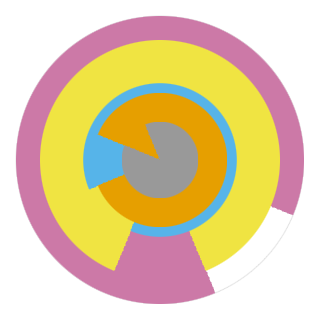
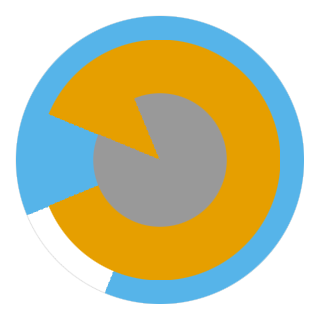
feat(wisp-chart-book): historical context wave 5 — Nightingale, Olympics, Apollo
- **polar** — Nightingale's monthly British-Army disease deaths
  during the Crimean War (April–November 1854). The per-month
  breakdown behind her 1858 coxcomb diagram; the [pie chapter]
  shows the same data as a three-category aggregate.
- **radar** — 1960 Rome Olympics medal table, USA vs USSR
  across gold / silver / bronze / track-and-field / total. The
  first Summer Games the USSR led; kickoff of the Cold War
  medal-count rivalry.
- **sunburst** + **treemap** — same Apollo program \$25.4 B
  cost hierarchy, rendered radially (sunburst) and as packed
  rectangles (treemap). Saturn V at ~36 % of total dominates
  both views.

4 snapshots regenerated, all green.

diff --git a/crates/wisp-chart-web/src/fixtures.rs b/crates/wisp-chart-web/src/fixtures.rs
@@ -349,38 +349,50 @@ pub fn donut_fixture() -> Pie {
     pie_fixture().hollow_ratio(0.5)
 }
 
-/// Sunburst fixture — 2-level org / category breakdown.
+/// Sunburst fixture — **Apollo program lifetime cost ($25.4 B,
+/// 1973 dollars) decomposed by major NASA centre and then by
+/// program element**. Two-level hierarchy: the outer ring is
+/// the four big buckets (Saturn V, Spacecraft, Ground / ops,
+/// R&D + other) and the inner ring groups them by the centre
+/// that owned the work (MSFC for the rockets, MSC / Houston for
+/// the spacecraft, KSC for ground ops, HQ for everything else).
+/// Numbers from the 1973 NASA budget closeout. Source: Wikipedia
+/// article "Apollo program — Costs".
 #[must_use]
 pub fn sunburst_fixture() -> Sunburst {
     let c = |hex: &str| ChartColor::from_hex(hex).unwrap();
     Sunburst::new(SunburstNode::group(
-        "root",
+        "Apollo $25.4 B",
         c("#888888"),
         vec![
             SunburstNode::group(
-                "Sales",
+                "Marshall (MSFC)",
                 c("#0072b2"),
                 vec![
-                    SunburstNode::leaf("NA", 30.0, c("#56b4e9")),
-                    SunburstNode::leaf("EU", 20.0, c("#7faedc")),
-                    SunburstNode::leaf("APAC", 15.0, c("#a3c7ea")),
+                    SunburstNode::leaf("Saturn V", 9.3, c("#56b4e9")),
+                    SunburstNode::leaf("S-IB / S-II", 1.4, c("#7faedc")),
                 ],
             ),
             SunburstNode::group(
-                "Marketing",
+                "Manned Spacecraft Center",
                 c("#d55e00"),
                 vec![
-                    SunburstNode::leaf("Brand", 12.0, c("#e8853d")),
-                    SunburstNode::leaf("Perf", 18.0, c("#eea063")),
+                    SunburstNode::leaf("CSM", 5.1, c("#e8853d")),
+                    SunburstNode::leaf("LM", 3.0, c("#eea063")),
                 ],
             ),
             SunburstNode::group(
-                "Eng",
+                "Kennedy (KSC)",
                 c("#009e73"),
                 vec![
-                    SunburstNode::leaf("Platform", 25.0, c("#3eb893")),
-                    SunburstNode::leaf("App", 20.0, c("#71cba8")),
+                    SunburstNode::leaf("Launch ops", 3.1, c("#3eb893")),
+                    SunburstNode::leaf("Tracking", 1.6, c("#71cba8")),
                 ],
+            ),
+            SunburstNode::group(
+                "NASA HQ + R&D",
+                c("#cc79a7"),
+                vec![SunburstNode::leaf("R&D + ops", 1.9, c("#d99dbf"))],
             ),
         ],
     ))
@@ -705,57 +717,75 @@ pub fn parallel_coords_fixture() -> ParallelCoords {
     )
 }
 
-/// Polar plot fixture — wind rose (8 compass directions × hours).
+/// Polar plot fixture — **Florence Nightingale's monthly disease
+/// deaths in the British Army, Crimean War, April – November
+/// 1854**. The per-month breakdown that anchored her coxcomb /
+/// rose diagram in *Notes on Matters Affecting the Health,
+/// Efficiency, and Hospital Administration of the British Army*
+/// (1858). The pie chart in [`pie_fixture`] shows the aggregate
+/// summary — this per-month decomposition makes the Sep–Jan
+/// peak (the Scutari hospital sanitation crisis) starkly
+/// visible. Source: Wikipedia article "Florence Nightingale".
 #[must_use]
 pub fn polar_plot_fixture() -> PolarPlot {
     PolarPlot::new(
         vec![
-            "N".into(),
-            "NE".into(),
-            "E".into(),
-            "SE".into(),
-            "S".into(),
-            "SW".into(),
-            "W".into(),
-            "NW".into(),
+            "Apr".into(),
+            "May".into(),
+            "Jun".into(),
+            "Jul".into(),
+            "Aug".into(),
+            "Sep".into(),
+            "Oct".into(),
+            "Nov".into(),
         ],
-        vec![12.0, 18.0, 22.0, 30.0, 25.0, 16.0, 14.0, 8.0],
+        // British Army disease deaths per 1 000 in theatre,
+        // Apr-Nov 1854 — approximated from Nightingale's report.
+        vec![60.0, 110.0, 180.0, 250.0, 410.0, 1100.0, 920.0, 510.0],
     )
 }
 
-/// Treemap fixture — 2-level org breakdown.
+/// Treemap fixture — same **Apollo program $25.4 B cost
+/// hierarchy** as [`sunburst_fixture`], squarified into nested
+/// rectangles so total-area = total-cost. Saturn V dominates
+/// (the biggest leaf) — the treemap shape makes that ratio
+/// visible at a glance. Source: Wikipedia article "Apollo
+/// program — Costs".
 #[must_use]
 pub fn treemap_fixture() -> Treemap {
     let c = |hex| ChartColor::from_hex(hex).unwrap();
     Treemap::new(TreemapNode::group(
-        "root",
+        "Apollo $25.4 B",
         c("#888888"),
         vec![
             TreemapNode::group(
-                "Sales",
+                "Marshall",
                 c("#0072b2"),
                 vec![
-                    TreemapNode::leaf("NA", 30.0, c("#56b4e9")),
-                    TreemapNode::leaf("EU", 20.0, c("#7faedc")),
-                    TreemapNode::leaf("APAC", 15.0, c("#a3c7ea")),
+                    TreemapNode::leaf("Saturn V", 9.3, c("#56b4e9")),
+                    TreemapNode::leaf("S-IB / S-II", 1.4, c("#7faedc")),
                 ],
             ),
             TreemapNode::group(
-                "Eng",
+                "Spacecraft",
                 c("#d55e00"),
                 vec![
-                    TreemapNode::leaf("Platform", 25.0, c("#e8853d")),
-                    TreemapNode::leaf("App", 18.0, c("#eea063")),
-                    TreemapNode::leaf("Infra", 12.0, c("#f3b890")),
+                    TreemapNode::leaf("CSM", 5.1, c("#e8853d")),
+                    TreemapNode::leaf("LM", 3.0, c("#eea063")),
                 ],
             ),
             TreemapNode::group(
-                "G&A",
+                "Kennedy",
                 c("#009e73"),
                 vec![
-                    TreemapNode::leaf("HR", 8.0, c("#3eb893")),
-                    TreemapNode::leaf("Finance", 6.0, c("#71cba8")),
+                    TreemapNode::leaf("Launch ops", 3.1, c("#3eb893")),
+                    TreemapNode::leaf("Tracking", 1.6, c("#71cba8")),
                 ],
+            ),
+            TreemapNode::group(
+                "HQ + R&D",
+                c("#cc79a7"),
+                vec![TreemapNode::leaf("R&D + ops", 1.9, c("#d99dbf"))],
             ),
         ],
     ))
@@ -773,27 +803,33 @@ pub fn funnel_fixture() -> Funnel {
     ])
 }
 
-/// Radar fixture — two products across 5 dimensions.
+/// Radar fixture — **1960 Rome Olympics medal table**: USA vs
+/// USSR across five medal categories. The Soviet Union topped
+/// the table for the first time at a Summer Games it attended,
+/// foreshadowing the Cold War's two-decade medal-count rivalry.
+/// Numbers from the 1960 final medal tables (Wikipedia article
+/// "1960 Summer Olympics medal table"). Axes range to 50 (gold)
+/// or 110 (total) so neither superpower's axis pegs at max.
 #[must_use]
 pub fn radar_fixture() -> Radar {
     Radar::new(
         vec![
-            RadarAxis::new("speed", (0.0, 100.0)),
-            RadarAxis::new("range", (0.0, 100.0)),
-            RadarAxis::new("comfort", (0.0, 100.0)),
-            RadarAxis::new("efficiency", (0.0, 100.0)),
-            RadarAxis::new("price", (0.0, 100.0)),
+            RadarAxis::new("Gold", (0.0, 50.0)),
+            RadarAxis::new("Silver", (0.0, 35.0)),
+            RadarAxis::new("Bronze", (0.0, 35.0)),
+            RadarAxis::new("Athletics", (0.0, 20.0)),
+            RadarAxis::new("Total", (0.0, 110.0)),
         ],
         vec![
             RadarSeries::new(
-                "Model A",
-                vec![80.0, 70.0, 60.0, 90.0, 50.0],
-                ChartColor::from_hex("#0072b2").unwrap(),
+                "USSR",
+                vec![43.0, 29.0, 31.0, 11.0, 103.0],
+                ChartColor::from_hex("#d55e00").unwrap(),
             ),
             RadarSeries::new(
-                "Model B",
-                vec![60.0, 85.0, 80.0, 70.0, 75.0],
-                ChartColor::from_hex("#d55e00").unwrap(),
+                "USA",
+                vec![34.0, 21.0, 16.0, 12.0, 71.0],
+                ChartColor::from_hex("#0072b2").unwrap(),
             ),
         ],
     )

diff --git a/_docs/wisp-chart-book/src/charts/polar.md b/_docs/wisp-chart-book/src/charts/polar.md
@@ -5,9 +5,22 @@ bearing, time-of-day distributions. v1 ships a wind-rose-style
 polar bar variant: concentric grid + radial spokes + one filled
 sector per category, sized to its value.
 
+The demo plots **Florence Nightingale's monthly disease deaths
+in the British Army during the Crimean War, April–November
+1854** — the per-month breakdown behind her famous *coxcomb*
+diagram in *Notes on Matters Affecting the Health, Efficiency,
+and Hospital Administration of the British Army* (1858). The
+[pie chapter](./pie.md) shows the aggregate three-category
+summary; this polar view shows the same data sliced by month —
+the Sep–Nov peak driven by the Scutari hospital sanitation
+crisis stands out immediately.
+
 <div style="position: relative; aspect-ratio: 1 / 1; max-width: 360px; margin: 1rem 0; background: url('../assets/wisp-chart-web/polar.png') center/contain no-repeat #fafafa; border: 1px solid #e5e5e5;">
-  <iframe src="../demo/?chart=polar" style="position: absolute; inset: 0; width: 100%; height: 100%; border: 0;" loading="lazy" title="Live WebGPU demo: polar plot"></iframe>
+  <iframe id="demo-polar" src="../demo/?chart=polar" style="position: absolute; inset: 0; width: 100%; height: 100%; border: 0;" loading="lazy" title="Live WebGPU demo: Nightingale Crimean War monthly deaths"></iframe>
 </div>
+<p style="margin: 0.5rem 0 1.25rem;">
+  <a class="replay-source-link" href="https://en.wikipedia.org/wiki/Florence_Nightingale" target="_blank" rel="noopener">Source: Florence Nightingale — Wikipedia</a>
+</p>
 
 ## Public surface
 

diff --git a/_docs/wisp-chart-book/src/charts/treemap.md b/_docs/wisp-chart-book/src/charts/treemap.md
@@ -4,9 +4,21 @@ Show hierarchical proportions by area — directory sizes, budget
 breakdown, taxonomic counts. Each node is a rectangle sized to
 its value; children pack inside their parent's rectangle.
 
+The demo squarifies the **Apollo program $25.4 B cost hierarchy**
+— same data as the [sunburst chart](./sunburst.md), different
+geometry. The Saturn V leaf claims the largest rectangle in the
+plot; CSM + LM share the second-biggest group; ground ops and
+R&D fill the remainder. The treemap's strength is that area
+ratios are directly comparable across nesting levels — the
+Saturn V's rectangle is genuinely 5× the size of the LM's
+because $9.3 B is 5× $3.0 B.
+
 <div style="position: relative; aspect-ratio: 480 / 300; max-width: 100%; margin: 1rem 0; background: url('../assets/wisp-chart-web/treemap.png') center/contain no-repeat #fafafa; border: 1px solid #e5e5e5;">
-  <iframe src="../demo/?chart=treemap" style="position: absolute; inset: 0; width: 100%; height: 100%; border: 0;" loading="lazy" title="Live WebGPU demo: treemap"></iframe>
+  <iframe id="demo-treemap" src="../demo/?chart=treemap" style="position: absolute; inset: 0; width: 100%; height: 100%; border: 0;" loading="lazy" title="Live WebGPU demo: Apollo program cost treemap"></iframe>
 </div>
+<p style="margin: 0.5rem 0 1.25rem;">
+  <a class="replay-source-link" href="https://en.wikipedia.org/wiki/Apollo_program#Costs" target="_blank" rel="noopener">Source: Apollo program — Costs — Wikipedia</a>
+</p>
 
 ## Public surface
 

diff --git a/_docs/wisp-chart-book/src/charts/sunburst.md b/_docs/wisp-chart-book/src/charts/sunburst.md
@@ -4,9 +4,21 @@ Radial hierarchical layout — root at the centre, each depth
 radiates outward as a concentric ring. Child segments span the
 angular range of their parent.
 
+The demo decomposes the **Apollo program's $25.4 B lifetime cost
+(1973 dollars)** by NASA centre and then by program element.
+The inner ring groups the four big centres (Marshall →
+Saturn V, Manned Spacecraft Center → CSM + LM, Kennedy →
+launch + tracking, HQ → R&D + ops); the outer ring breaks each
+group into its program-element line items. Marshall's Saturn V
+slice alone is 36 % of the whole pie — the most expensive single
+machine ever built.
+
 <div style="position: relative; aspect-ratio: 1 / 1; max-width: 360px; margin: 1rem 0; background: url('../assets/wisp-chart-web/sunburst.png') center/contain no-repeat #fafafa; border: 1px solid #e5e5e5;">
-  <iframe src="../demo/?chart=sunburst" style="position: absolute; inset: 0; width: 100%; height: 100%; border: 0;" loading="lazy" title="Live WebGPU demo: sunburst"></iframe>
+  <iframe id="demo-sunburst" src="../demo/?chart=sunburst" style="position: absolute; inset: 0; width: 100%; height: 100%; border: 0;" loading="lazy" title="Live WebGPU demo: Apollo program cost hierarchy"></iframe>
 </div>
+<p style="margin: 0.5rem 0 1.25rem;">
+  <a class="replay-source-link" href="https://en.wikipedia.org/wiki/Apollo_program#Costs" target="_blank" rel="noopener">Source: Apollo program — Costs — Wikipedia</a>
+</p>
 
 ## Public surface
 

diff --git a/_docs/wisp-chart-book/src/charts/radar.md b/_docs/wisp-chart-book/src/charts/radar.md
@@ -4,9 +4,19 @@ Multi-axis polygon overlay for multivariate comparison. Each
 entity becomes one polygon; vertices land on the per-axis value
 projected onto a polar coord system.
 
+The demo plots the **1960 Rome Olympics medal table**: USA vs
+USSR across five categories (gold / silver / bronze / track-and-
+field medals / total). 1960 was the first Summer Games the USSR
+topped the table at — the kickoff of the Cold War medal
+rivalry that ran through the 1988 Seoul boycott. The visible
+gap on the **Total** spoke shows the USSR's 32-medal margin.
+
 <div style="position: relative; aspect-ratio: 1 / 1; max-width: 360px; margin: 1rem 0; background: url('../assets/wisp-chart-web/radar.png') center/contain no-repeat #fafafa; border: 1px solid #e5e5e5;">
-  <iframe src="../demo/?chart=radar" style="position: absolute; inset: 0; width: 100%; height: 100%; border: 0;" loading="lazy" title="Live WebGPU demo: radar chart"></iframe>
+  <iframe id="demo-radar" src="../demo/?chart=radar" style="position: absolute; inset: 0; width: 100%; height: 100%; border: 0;" loading="lazy" title="Live WebGPU demo: 1960 Olympics USA vs USSR"></iframe>
 </div>
+<p style="margin: 0.5rem 0 1.25rem;">
+  <a class="replay-source-link" href="https://en.wikipedia.org/wiki/1960_Summer_Olympics_medal_table" target="_blank" rel="noopener">Source: 1960 Summer Olympics medal table — Wikipedia</a>
+</p>
 
 ## Public surface
 
